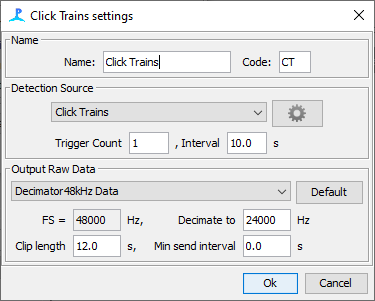
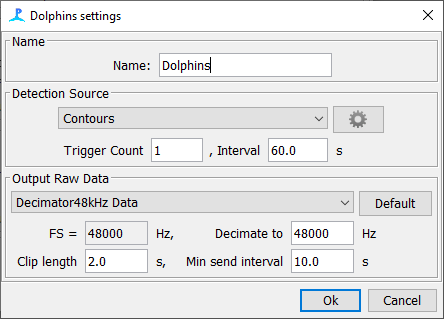
Collator Help
Updated help content + better way of adding plugins under development to
PamModel

diff --git a/src/contactcollator/swing/CollatorSetPanel.java b/src/contactcollator/swing/CollatorSetPanel.java
@@ -34,7 +34,7 @@ public class CollatorSetPanel implements PamDialogPanel {
 	
 	private CollatorParamSet collatorParamSet;
 	
-	private JTextField name, speciesCode;
+	private JTextField name;//, speciesCode;
 	
 	private PamSettingsIconButton filterButton;
 	
@@ -79,10 +79,10 @@ public class CollatorSetPanel implements PamDialogPanel {
 		namePanel.add(new JLabel("Name: ", JLabel.RIGHT), c);
 		c.gridx++;
 		namePanel.add(name = new JTextField(15), c);
-		c.gridx++;
-		namePanel.add(new JLabel("  Code: ", JLabel.RIGHT), c);
-		c.gridx++;
-		namePanel.add(speciesCode = new JTextField(3), c);
+//		c.gridx++;
+//		namePanel.add(new JLabel("  Code: ", JLabel.RIGHT), c);
+//		c.gridx++;
+//		namePanel.add(speciesCode = new JTextField(3), c);
 		c.gridx = 0;
 		c.gridy++;
 		c.gridwidth = 2;
@@ -178,7 +178,7 @@ public class CollatorSetPanel implements PamDialogPanel {
 		});
 		
 		name.setToolTipText("Enter a user friendly name for this output data set");
-		speciesCode.setToolTipText("Enter a shorter code which will be saved with data");
+//		speciesCode.setToolTipText("Enter a shorter code which will be saved with data");
 		detectionSourcePanel.getPanel().setToolTipText("Trigger data source");
 		triggerCount.setToolTipText("Number of detections required to trigger output");
 		triggerSeconds.setToolTipText("Trigger count period in seconds");
@@ -294,7 +294,7 @@ public class CollatorSetPanel implements PamDialogPanel {
 			collatorParamSet = new CollatorParamSet();
 		}
 		name.setText(collatorParamSet.setName);
-		speciesCode.setText(collatorParamSet.speciesCode);
+//		speciesCode.setText(collatorParamSet.speciesCode);
 		detectionSourcePanel.setSource(collatorParamSet.detectionSource);
 		rawDataSourcePanel.setSource(collatorParamSet.rawDataSource);
 		triggerCount.setText(String.format("%d", collatorParamSet.triggerCount));
@@ -316,10 +316,10 @@ public class CollatorSetPanel implements PamDialogPanel {
 		if (collatorParamSet.setName == null || collatorParamSet.setName.length() == 0) {
 			return collatorDialog.showWarning("You must enter a name for the set");
 		}
-		collatorParamSet.speciesCode = speciesCode.getText();
-		if (collatorParamSet.speciesCode == null || collatorParamSet.speciesCode.length() == 0) {
-			return collatorDialog.showWarning("You must enter a species code for the set");
-		}
+//		collatorParamSet.speciesCode = speciesCode.getText();
+//		if (collatorParamSet.speciesCode == null || collatorParamSet.speciesCode.length() == 0) {
+//			return collatorDialog.showWarning("You must enter a species code for the set");
+//		}
 		collatorParamSet.detectionSource = detectionSourcePanel.getSourceName();
 		if (collatorParamSet.detectionSource == null) {
 			return collatorDialog.showWarning("You must enter a detection source");

diff --git a/src/PamModel/PamModel.java b/src/PamModel/PamModel.java
@@ -38,6 +38,7 @@ import Acquisition.DaqSystemInterface;
 import Array.ArraySidePanelControl;
 import clickDetector.ClickDetection;
 import contactcollator.CollatorControl;
+import contactcollator.CollatorPlugin;
 import dataMap.DataMapControl;
 import detectiongrouplocaliser.DetectionGroupControl;
 import effortmonitor.EffortControl;
@@ -461,10 +462,10 @@ final public class PamModel implements PamModelInterface, PamSettings {
 		mi.setModulesMenuGroup(utilitiesGroup);
 		mi.setMaxNumber(1);
 
-		mi = PamModuleInfo.registerControlledUnit(CollatorControl.class.getName(), CollatorControl.unitType);
-		mi.setToolTipText("Collate data with clips");
-		mi.setModulesMenuGroup(utilitiesGroup);
-		mi.setMaxNumber(1);
+//		mi = PamModuleInfo.registerControlledUnit(CollatorControl.class.getName(), CollatorControl.unitType);
+//		mi.setToolTipText("Collate data with clips");
+//		mi.setModulesMenuGroup(utilitiesGroup);
+//		mi.setMaxNumber(1);
 		
 		
 
@@ -1074,6 +1075,8 @@ final public class PamModel implements PamModelInterface, PamSettings {
 		// clear the current list
 		pluginList.clear();
 		daqList.clear();
+		
+		pluginList.add(new CollatorPlugin());
 
 		// Load up whatever default classloader was used to create this class.  Must use the same classloader
 		// for all plugins, or else we will not be able to create proper dependencies between them or be able
@@ -1284,7 +1287,7 @@ final public class PamModel implements PamModelInterface, PamSettings {
 						
 						// instantiate the plugin control class using the custom class loader
 						try {
-							File classFile = new File(pf.getJarFile());		
+//							File classFile = new File(pf.getJarFile());		
 							//URLClassLoader cl = new URLClassLoader(new URL[]{classFile.toURI().toURL()});
 //							mi = PamModuleInfo.registerControlledUnit(pf.getClassName(), pf.getDescription(),cl);
 							mi = PamModuleInfo.registerControlledUnit(pf.getClassName(), pf.getDescription(),classLoader);

diff --git a/src/contactcollator/swing/CollatorSetDisplay.java b/src/contactcollator/swing/CollatorSetDisplay.java
@@ -37,7 +37,7 @@ public class CollatorSetDisplay implements PamDialogPanel {
 	
 	private CollatorParamSet collatorParamSet;
 	
-	private DisplayField name, speciesCode;
+	private DisplayField name;//, speciesCode;
 	
 	private TitledBorder titledBorder;
 	
@@ -66,10 +66,10 @@ public class CollatorSetDisplay implements PamDialogPanel {
 		mainPanel.add(new JLabel("Name: ", JLabel.RIGHT), c);
 		c.gridx++;
 		mainPanel.add(name = new DisplayField(30), c);
-		c.gridx++;
-		mainPanel.add(new JLabel("  Code: ", JLabel.RIGHT), c);
-		c.gridx++;
-		mainPanel.add(speciesCode = new DisplayField(3), c);
+//		c.gridx++;
+//		mainPanel.add(new JLabel("  Code: ", JLabel.RIGHT), c);
+//		c.gridx++;
+//		mainPanel.add(speciesCode = new DisplayField(3), c);
 		c.gridx = 0;
 		c.gridy++;
 		c.gridwidth = 1;
@@ -129,7 +129,7 @@ public class CollatorSetDisplay implements PamDialogPanel {
 //		titledBorder.setTitle(collatorParamSet.setName);
 //		mainPanel.setBorder(new TitledBorder(collatorParamSet.setName));
 		name.setText(collatorParamSet.setName);
-		speciesCode.setText(collatorParamSet.speciesCode);
+//		speciesCode.setText(collatorParamSet.speciesCode);
 		detectionSource.setText(collatorParamSet.detectionSource);
 		PamDataBlock sourceData = PamController.getInstance().getDataBlockByLongName(collatorParamSet.rawDataSource);
 		if (sourceData == null) {

diff --git a/src/contactcollator/CollatorParamSet.java b/src/contactcollator/CollatorParamSet.java
@@ -17,7 +17,7 @@ public class CollatorParamSet  implements ManagedParameters, Cloneable, Serializ
 	/**
 	 * Species code to pass on with output data
 	 */
-	public String speciesCode;
+//	public String speciesCode;
 	
 	/**
 	 * Detector source (any detector)

diff --git a/src/contactcollator/CollatorPlugin.java b/src/contactcollator/CollatorPlugin.java
@@ -39,7 +39,7 @@ public class CollatorPlugin implements PamPluginInterface {
 
 	@Override
 	public String getVersion() {
-		return "1.1";
+		return "1.2";
 	}
 
 	@Override
